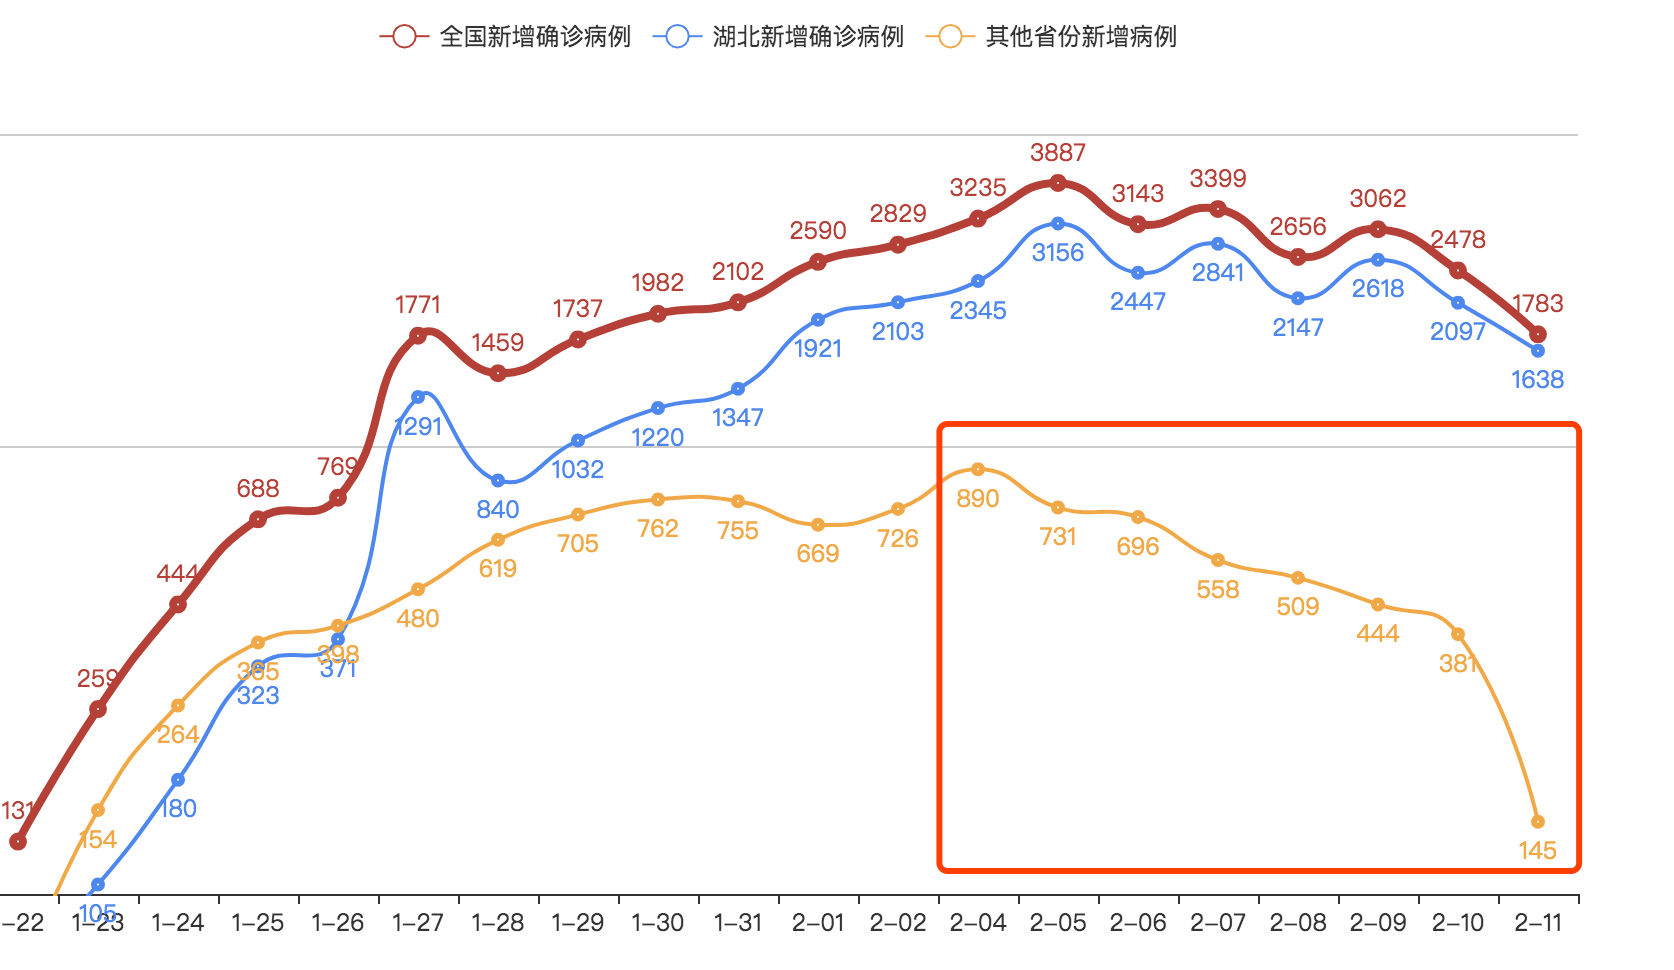
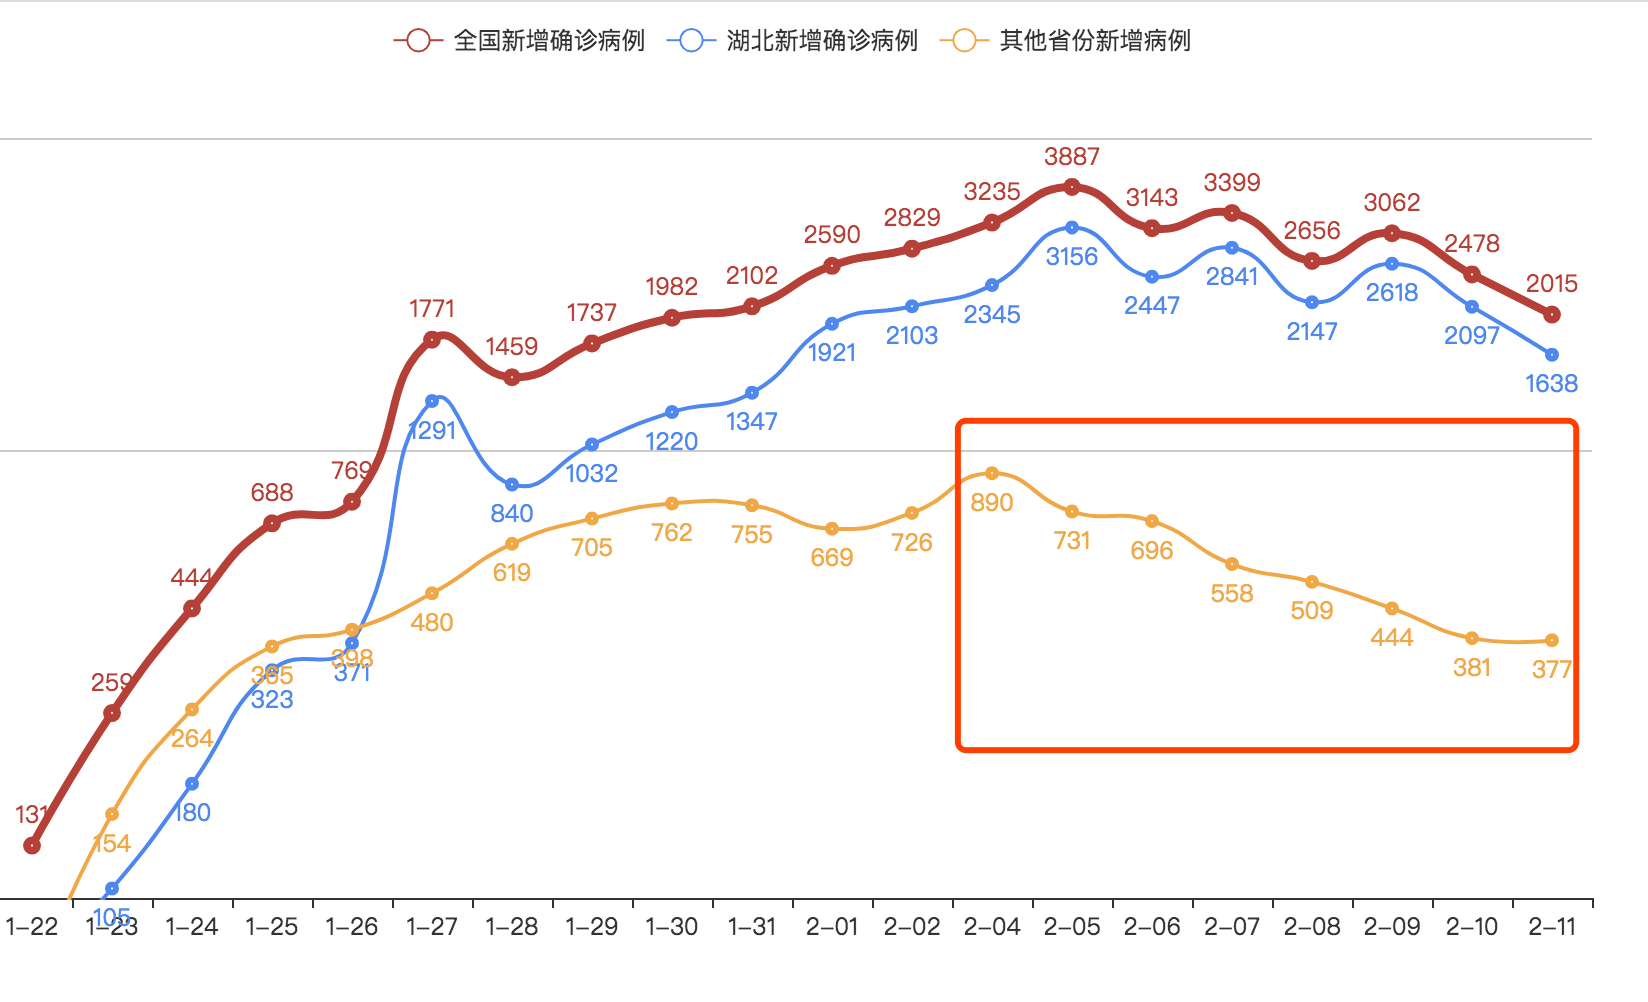
update result

Changed region(s): [[0.0, 0.1237, 0.9593, 0.9588], [0.2166, 0.0, 0.7427, 0.0619]]

diff --git a/main.py b/main.py
@@ -94,7 +94,7 @@ def draw_tendency(month, day):
     dates = ['1-22', '1-23', '1-24', '1-25', '1-26', '1-27', '1-28',
              '1-29', '1-30', '1-31', '2-01', '2-02', '2-04', '2-05', '2-06', '2-07', '2-08', '2-09', '2-10', '2-11']
     v0 = [131, 259, 444, 688, 769, 1771, 1459, 1737, 1982, 2102, 2590, 2829, 3235, 3887, 3143, 3399, 2656, 3062, 2478,
-          1804]
+          2015]
     v1 = [69, 105, 180, 323, 371, 1291, 840, 1032, 1220, 1347, 1921, 2103, 2345, 3156, 2447, 2841, 2147, 2618, 2097,
           1638]
     v2 = [v0[i] - v1[i] for i in range(len(v0))]
@@ -254,5 +254,5 @@ if __name__ == '__main__':
     m, d = 2, 12
     # get_html(m, d)
     draw_tendency(m, d)
-    # draw_multiple_pie(m, d)
-    # draw_multiple_map(m, d)
+    draw_multiple_pie(m, d)
+    draw_multiple_map(m, d)

diff --git a/README.md b/README.md
@@ -15,7 +15,7 @@
 - 更新：2020.2.09 09:01 今天湖北省的新增确诊也明显下降了，其他省份也持续在降，开心啊
 - 更新：2020.2.10 08:33
 - 更新：2020.2.11 08:40 不考虑潜伏期的话，其他省份按照现在的下降速度，最多一个星期就不会再有新增病例了。真希望是这样的趋势啊
-- 更新：2020.2.12 08:40 今天新增确诊骤降啊！
+- 更新：2020.2.12 08:40 湖北省新增确诊骤降啊！
 
 # 全国/各省份疫情地图
 ![image](https://github.com/shadow12138/WuHanGanBaDei/blob/master/result/r1.png)
